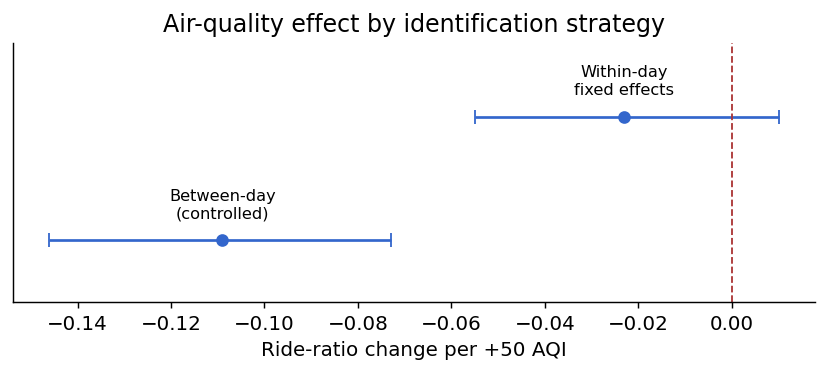
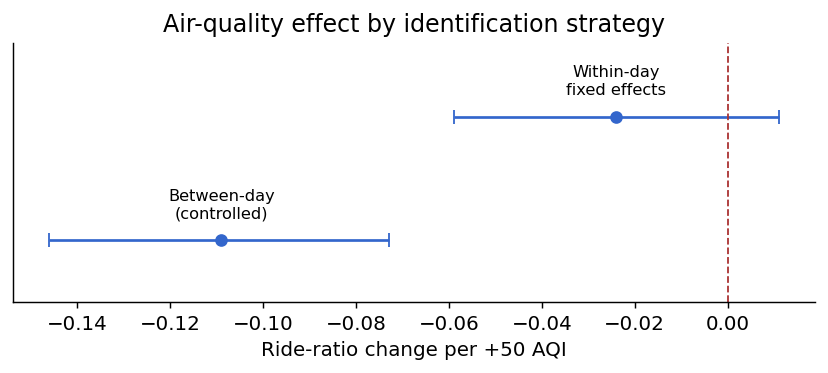
rerun tables

diff --git a/paper/tables/aqi_identification.md b/paper/tables/aqi_identification.md
@@ -1,4 +1,4 @@
 | identification | effect_per_50 | ci_low | ci_high | n |
 | --- | --- | --- | --- | --- |
 | between-day (controlled) | -0.109 | -0.146 | -0.073 | 1096 |
-| within-day fixed effects | -0.023 | -0.055 | 0.010 | 1096 |
+| within-day fixed effects | -0.024 | -0.059 | 0.011 | 881 |

diff --git a/paper/tables/served_ci.md b/paper/tables/served_ci.md
@@ -1,6 +1,6 @@
 | metric | low | high |
 | --- | --- | --- |
-| auroc | 0.919 | 0.954 |
-| auprc | 0.416 | 0.568 |
-| brier | 0.019 | 0.023 |
-| ece | 0.041 | 0.047 |
+| auroc | 0.900 | 0.967 |
+| auprc | 0.319 | 0.638 |
+| brier | 0.017 | 0.026 |
+| ece | 0.036 | 0.052 |

diff --git a/paper/tables/aqi_coefficient.md b/paper/tables/aqi_coefficient.md
@@ -1,0 +1,4 @@
+| aqi_source | std_coefficient |
+| --- | --- |
+| hourly (served) | 0.036 |
+| daily | -0.039 |
